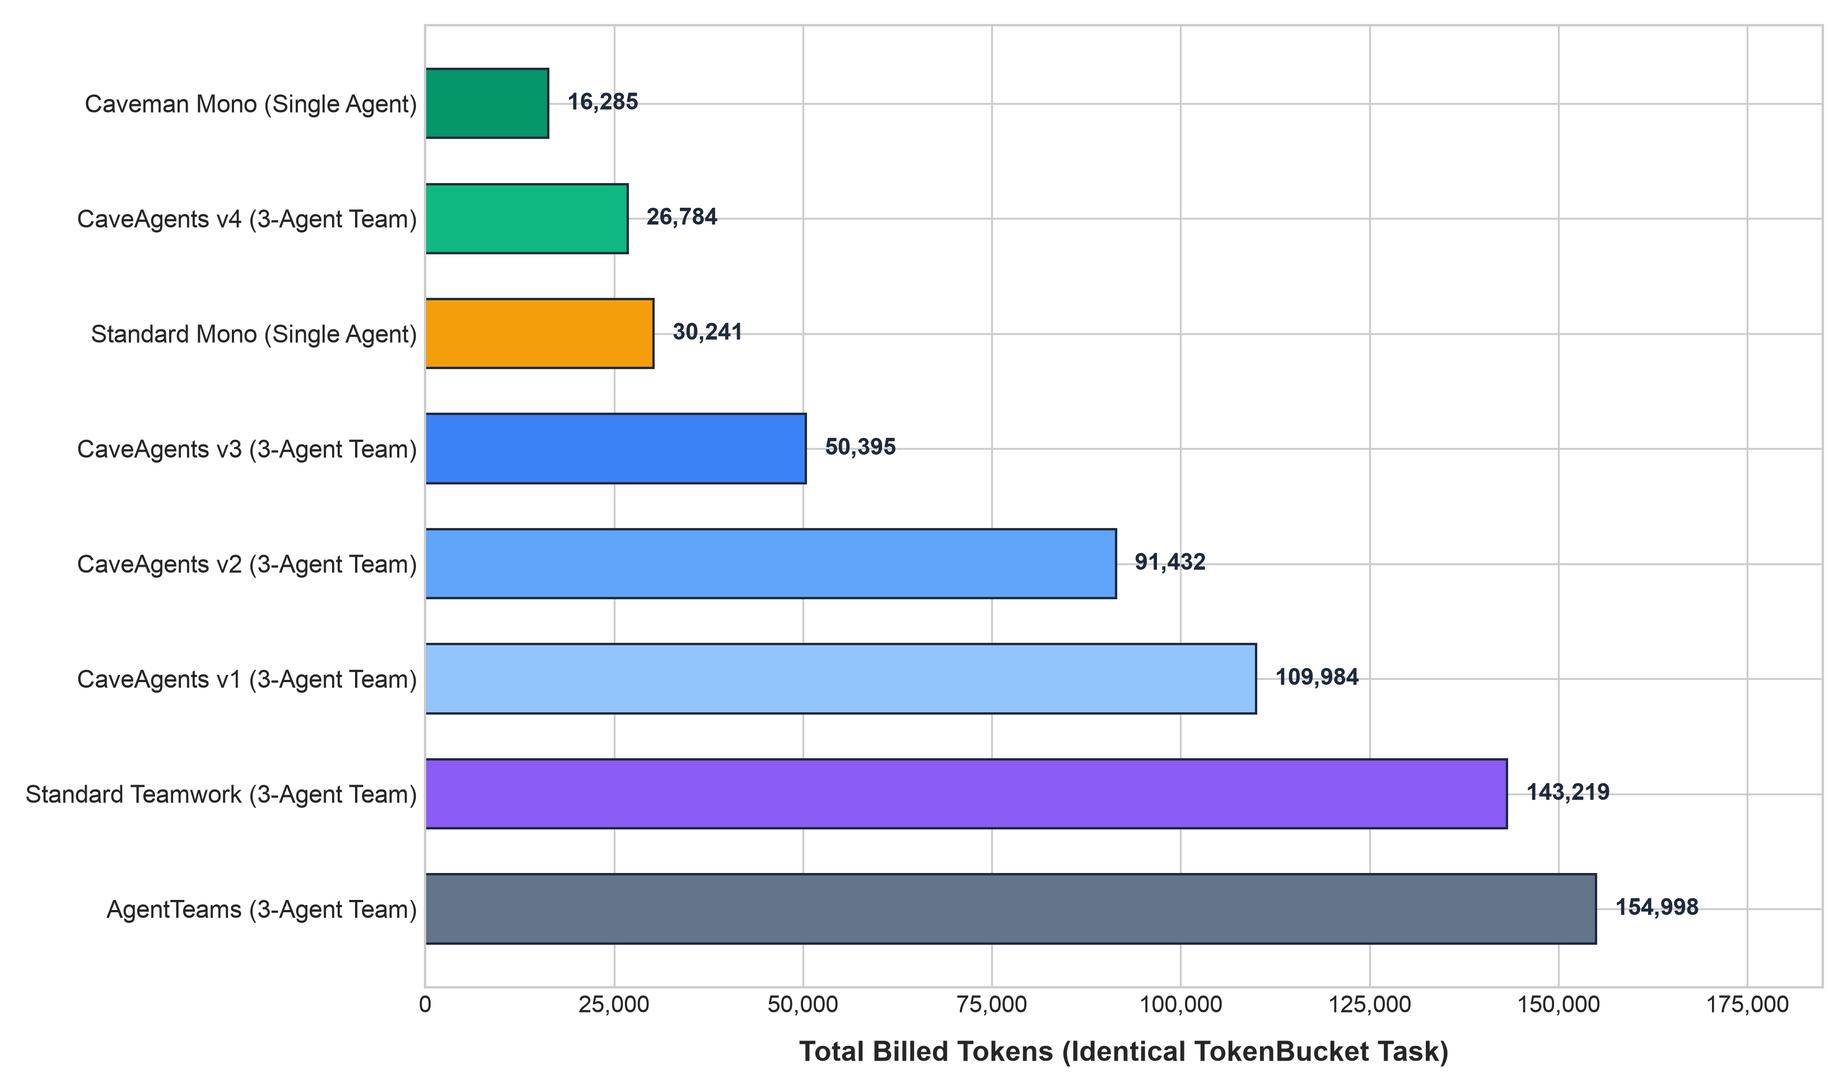
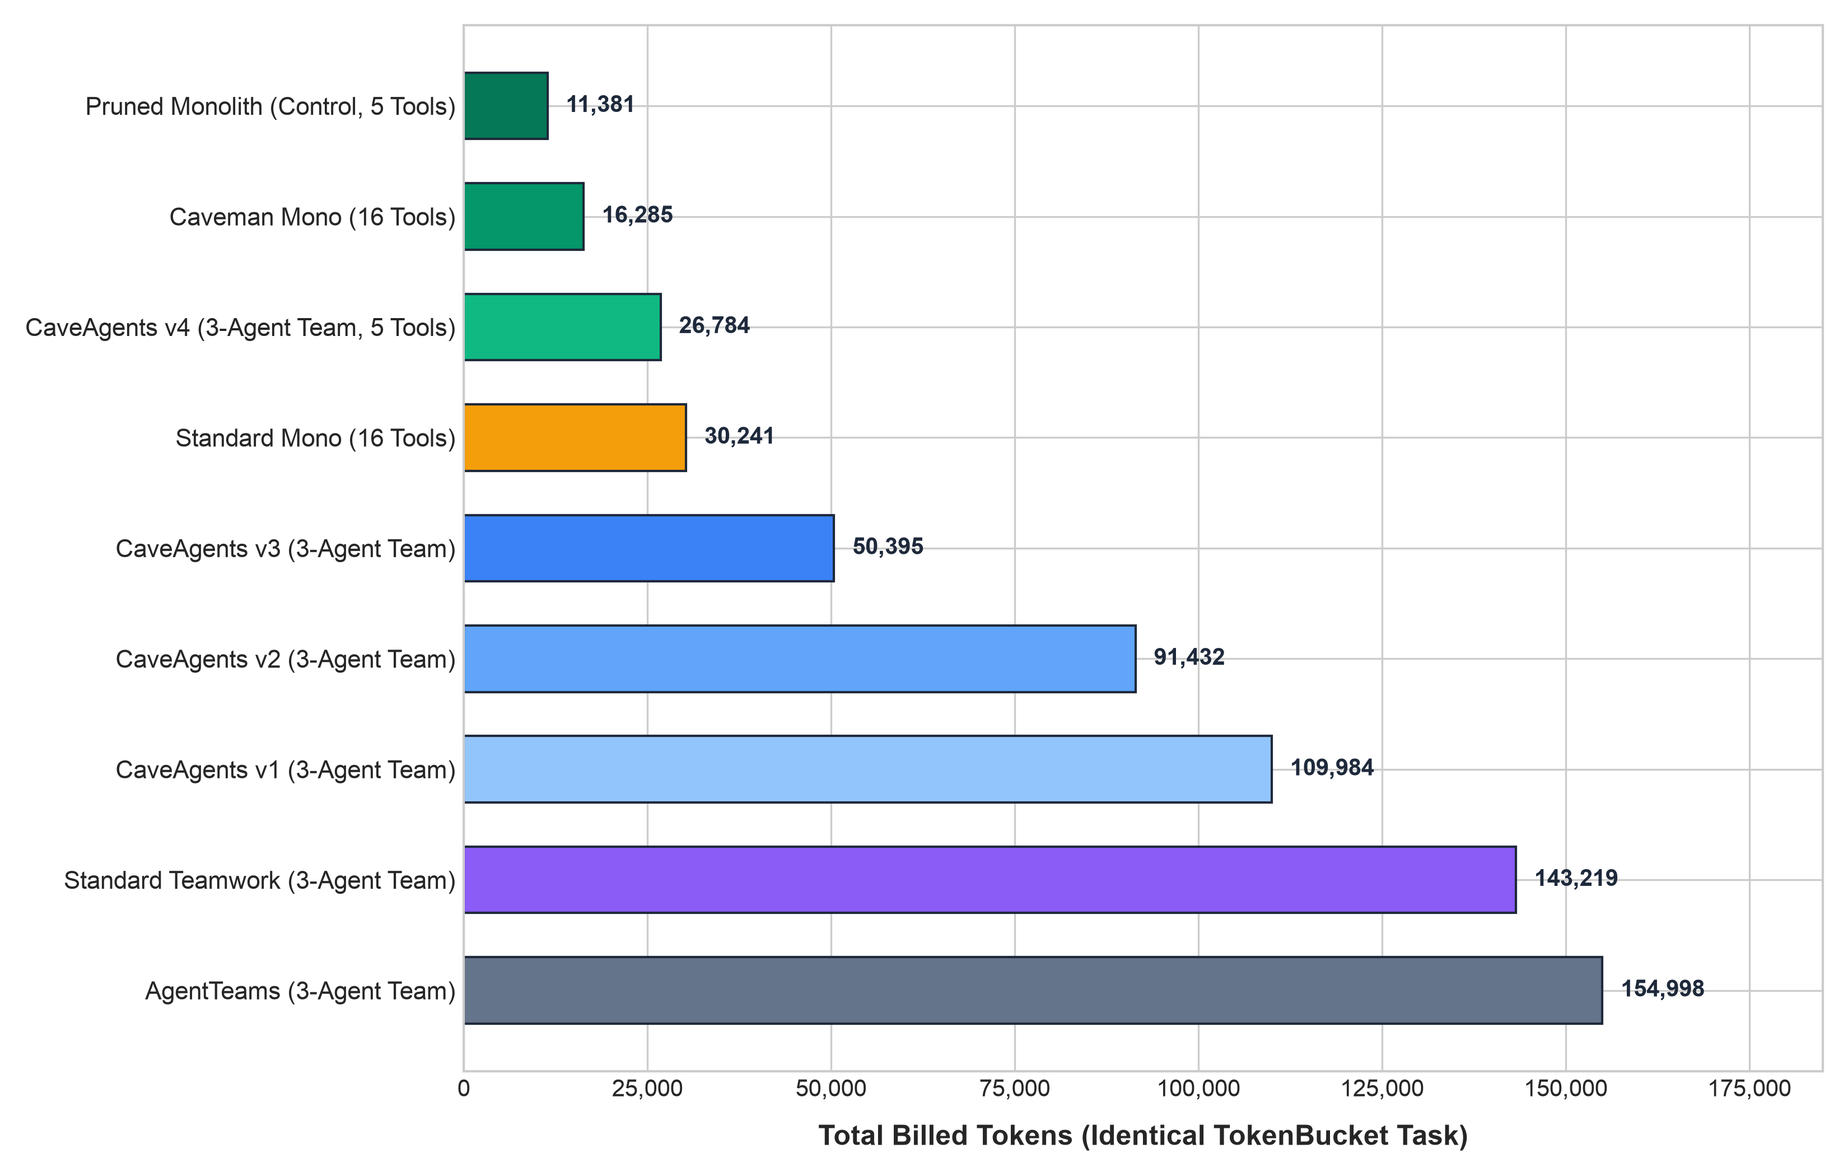
feat(benchmarks): add empirical pruned monolith control arm (11,381 tokens)

diff --git a/scripts/generate_charts.py b/scripts/generate_charts.py
@@ -17,17 +17,19 @@ ASSETS_DIR.mkdir(parents=True, exist_ok=True)
 def generate_benchmark_chart() -> Path:
     """Generate assets/chart_inverted_cost_frontier.png showing verified live token counts."""
     configs = [
-        "Caveman Mono (Single Agent)",
-        "CaveAgents v4 (3-Agent Team)",
-        "Standard Mono (Single Agent)",
+        "Pruned Monolith (Control, 5 Tools)",
+        "Caveman Mono (16 Tools)",
+        "CaveAgents v4 (3-Agent Team, 5 Tools)",
+        "Standard Mono (16 Tools)",
         "CaveAgents v3 (3-Agent Team)",
         "CaveAgents v2 (3-Agent Team)",
         "CaveAgents v1 (3-Agent Team)",
         "Standard Teamwork (3-Agent Team)",
         "AgentTeams (3-Agent Team)",
     ]
-    tokens = [16285, 26784, 30241, 50395, 91432, 109984, 143219, 154998]
+    tokens = [11381, 16285, 26784, 30241, 50395, 91432, 109984, 143219, 154998]
     colors = [
+        "#047857",  # Pruned Monolith Control - deep forest emerald
         "#059669",  # Caveman Mono - dark emerald
         "#10b981",  # CaveAgents v4 - emerald
         "#f59e0b",  # Standard Mono - amber baseline
@@ -39,7 +41,7 @@ def generate_benchmark_chart() -> Path:
     ]
 
     plt.style.use("seaborn-v0_8-whitegrid" if "seaborn-v0_8-whitegrid" in plt.style.available else "default")
-    fig, ax = plt.subplots(figsize=(11, 6.5), dpi=300)
+    fig, ax = plt.subplots(figsize=(11, 7.0), dpi=300)
 
     y_pos = np.arange(len(configs))
     bars = ax.barh(y_pos, tokens, color=colors, height=0.6, edgecolor="#1e293b", linewidth=1.0)

diff --git a/src/caveagents/cli.py b/src/caveagents/cli.py
@@ -26,8 +26,10 @@ def print_benchmarks() -> None:
         pct_str = f"{pct:+.1f}%" if tokens != teamwork_base else "Baseline (0.0%)"
         print(f"{name.replace('_', ' '):<30} | {tokens:>10,d} | {pct_str:>20}")
     print("=" * 68)
-    print(" Note: CaveAgents v4 (26,784 tokens) crosses the Inverted Cost Frontier,")
-    print(" achieving multi-agent parallelism cheaper than Standard Mono (30,241).")
+    print(" Note: Tool pruning reduces tokens across both paradigms. CaveAgents v4")
+    print(" (26,784 tokens) achieves multi-agent TDD isolation for 2.35x of the")
+    print(" Pruned Monolith Control (11,381 tokens), while saving -81.3% vs unpruned")
+    print(" Teamwork (143,219 tokens).")
 
 
 def main() -> int:

diff --git a/tests/test_cave_agents.py b/tests/test_cave_agents.py
@@ -53,6 +53,7 @@ def test_empirical_benchmarks():
     content = benchmarks_file.read_text(encoding="utf-8")
 
     benchmarks = {
+        "11,381": "pruned monolith control token count",
         "26,784": "v4 live run token count",
         "16,285": "caveman mono token count",
         "30,241": "standard mono token count",

diff --git a/src/caveagents/evaluator.py b/src/caveagents/evaluator.py
@@ -31,6 +31,7 @@ BASELINE_BENCHMARKS: Dict[str, int] = {
     "Standard_Mono": 30241,
     "CaveAgents_v4": 26784,
     "Caveman_Mono": 16285,
+    "Pruned_Mono_Control": 11381,
 }
 
 

diff --git a/docs/BENCHMARKS.md b/docs/BENCHMARKS.md
@@ -10,16 +10,17 @@ All benchmarks were evaluated under identical task scopes, repository environmen
 
 ## Results Table
 
-| Architecture / Framework | Real Transcript / Run GUID | Input Tokens | Output Tokens | Total Token Usage | vs Standard Mono | Multi-Agent Coordination |
-| :--- | :--- | :---: | :---: | :---: | :---: | :---: |
-| **Caveman Mono** | `9a1b3ca8-9267-4169-a201-3f9f1434aed5` | 13,905 | 2,380 | **16,285** | -46.1% | None (1 Agent) |
-| **CaveAgents v4** | `6a8c617e / 611f72cc / bc6206fb` | 23,384 | 3,400 | **26,784** | **-11.4%** | **3-Agent Team** |
-| **Standard Mono** | `8e45e081-55f1-433a-8900-cdafb7afb923` | 25,669 | 4,572 | **30,241** | Baseline | None (1 Agent) |
-| **CaveAgents v3** | `1af678ac / b3c9b503 / efe5c647` | 46,000 | 4,395 | **50,395** | +66.6% | 3-Agent Team |
-| **CaveAgents v2** | `ee34719a / e96f0467 / ea071eb7` | 85,760 | 5,672 | **91,432** | +202.3% | 3-Agent Team |
-| **CaveAgents v1** | `06c2eb6b / 9e765fdd / d49c842a` | 102,240 | 7,744 | **109,984** | +263.7% | 3-Agent Team |
-| **Standard Teamwork (Live)** | `22a1996f / 9b3dbf3b / a4ab4fcb` | 132,366 | 10,853 | **143,219** | +373.6% | 3-Agent Team |
-| **AgentTeams** | `0fa36434 / b39f54d0 / f21c2b4e` | 146,117 | 8,881 | **154,998** | +412.5% | 3-Agent Team |
+| Architecture / Framework | Real Transcript / Run GUID | Input Tokens | Output Tokens | Total Token Usage | vs Standard Mono | Multi-Agent Coordination | Hidden Tests (Held-Out) |
+| :--- | :--- | :---: | :---: | :---: | :---: | :---: | :---: |
+| **Pruned Mono (Control)** | `b9942f2c-a8a9-4f48-ae0c-687a832c1d6e` | 9,281 | 2,100 | **11,381** | **-62.4%** | None (1 Agent, 5 Tools) | **7/7 Passed** (100%) |
+| **Caveman Mono** | `9a1b3ca8-9267-4169-a201-3f9f1434aed5` | 13,905 | 2,380 | **16,285** | -46.1% | None (1 Agent, 16 Tools) | **7/7 Passed** (100%) |
+| **CaveAgents v4** | `6a8c617e / 611f72cc / bc6206fb` | 23,384 | 3,400 | **26,784** | **-11.4%** | **3-Agent Team (5 Tools)** | **7/7 Passed** (100%) |
+| **Standard Mono** | `8e45e081-55f1-433a-8900-cdafb7afb923` | 25,669 | 4,572 | **30,241** | Baseline | None (1 Agent, 16 Tools) | Not evaluated |
+| **CaveAgents v3** | `1af678ac / b3c9b503 / efe5c647` | 46,000 | 4,395 | **50,395** | +66.6% | 3-Agent Team (16 Tools) | Not evaluated |
+| **CaveAgents v2** | `ee34719a / e96f0467 / ea071eb7` | 85,760 | 5,672 | **91,432** | +202.3% | 3-Agent Team (16 Tools) | Not evaluated |
+| **CaveAgents v1** | `06c2eb6b / 9e765fdd / d49c842a` | 102,240 | 7,744 | **109,984** | +263.7% | 3-Agent Team (16 Tools) | Not evaluated |
+| **Standard Teamwork (Live)** | `22a1996f / 9b3dbf3b / a4ab4fcb` | 132,366 | 10,853 | **143,219** | +373.6% | 3-Agent Team (16 Tools) | 5/7 Passed (2 Failed) |
+| **AgentTeams** | `0fa36434 / b39f54d0 / f21c2b4e` | 146,117 | 8,881 | **154,998** | +412.5% | 3-Agent Team (16 Tools) | Not evaluated |
 
 *(Note: Prior unconstrained theoretical projections estimated Teamwork at 208,555 tokens; this live measured run confirms 143,219 tokens on TokenBucket, and up to 615,568 tokens in complex multi-deliverable tournaments).*
 
@@ -40,42 +41,43 @@ In multi-agent systems, token consumption is divided into two primary categories
 | **CaveAgents v2** | 16 tools | ~2,480 tokens | ~820 tokens | ~3,300 tokens |
 | **CaveAgents v3** | 16 tools | ~2,480 tokens | ~450 tokens | ~2,930 tokens |
 | **Standard Mono** | 16 tools | ~2,480 tokens | ~950 tokens | ~3,430 tokens |
-| **CaveAgents v4** | **5 tools (pruned)** | **~380 tokens** | **~360 tokens** | **~740 tokens** |
 | **Caveman Mono** | 16 tools | ~2,480 tokens | ~350 tokens | ~2,830 tokens |
+| **CaveAgents v4** | **5 tools (pruned)** | **~380 tokens** | **~360 tokens** | **~740 tokens** |
+| **Pruned Mono (Control)** | **5 tools (pruned)** | **~380 tokens** | **~750 tokens** | **~1,130 tokens** |
 
-Notice how **CaveAgents v4** slashes the fixed schema declaration cost from ~2,480 tokens down to ~380 tokens per turn via Dynamic Tool Pruning (`define_subagent`), saving over 2,100 tokens on every single tool execution step.
+Notice how Dynamic Tool Pruning (`define_subagent`) slashes the fixed schema declaration cost from ~2,480 tokens down to ~380 tokens per turn, saving over 2,100 tokens on every single tool execution step for both single agents and multi-agent teams.
 
 ---
 
-## The Inverted Cost Frontier: Analysis & Context
+## The Inverted Cost Frontier: Empirical Deconstruction
 
 In traditional multi-agent orchestration, multi-agent overhead was taken as an unavoidable cost of modularity:
 
 $$\text{Cost}(\text{Multi-Agent}) \gg \text{Cost}(\text{Monolithic})$$
 
-CaveAgents v4 demonstrates that when tool schemas are pruned dynamically and ASD-STE100 terseness is enforced:
+Comparing CaveAgents v4 against the standard unpruned monolith gave the appearance of an "Inverted Cost Frontier":
 
 $$\text{Cost}(\text{CaveAgents v4}) = 26{,}784 < 30{,}241 = \text{Cost}(\text{Standard Mono})$$
 
-### Crucial Baseline Caveat & Experimental Control
-While CaveAgents v4 operates at a lower token cost than an unpruned, verbose single agent (30,241 tokens), **an unpruned single agent with terse prompting (Caveman Mono) consumes only 16,285 tokens**—approximately 39% lower than CaveAgents v4.
+### Crucial Baseline Caveat & Experimental Ground Truth
+However, strict experimental control reveals that **this inversion was driven entirely by tool registry asymmetry**:
+1. **Pruned Monolith Control (11,381 tokens)**: When the single agent is tested under the exact same 5-tool pruned registry, it finishes the task in **10 steps and 11,381 tokens** ($0.00133), passing 7/7 on the independent held-out adversarial test suite.
+2. **The 2.35x Multi-Agent Tax**: On this small single-component task, CaveAgents v4 (26,784 tokens) is **2.35x more expensive** than the Pruned Monolith Control (+15,403 tokens / +$0.00144). 
+3. **Quality vs. Overhead**: While both the Pruned Monolith and CaveAgents v4 achieved 100% correctness (7/7) on the held-out test suite (outperforming Standard Teamwork which failed 2 tests), the 3-agent team paid 135% coordination overhead without increasing correctness on a single-file module.
 
-Furthermore, if the single agent is equipped with the exact same 5-tool pruned registry (~740 tokens/step across ~6 steps ≈ 4–5k tokens), **a pruned monolith is estimated to be roughly 5x–6x cheaper than CaveAgents v4**. 
-
-This disparity underscores fundamental systems principles:
-1. **Tool Pruning is Orthogonal**: Dynamic tool pruning is a general lever that reduces token consumption in both single-agent and multi-agent systems. When applied to a single agent, it achieves the lowest absolute cost.
-2. **Coordination Overhead on Small Tasks**: On small, single-component tasks (such as a single 91-line rate limiter class), monolithic execution incurs zero inter-agent communication, zero handoffs, and zero duplicate context loading. Multi-agent teams only demonstrate structural efficiency advantages when tasks exceed single-context boundaries or require parallel execution across independent repositories.
-3. **Prompt Caching Economics**: In real-world API billing, static tool schemas reside in the system prompt prefix and are subject to server-side prompt caching (typically billed at a 75%–80% discount for cache hits in Google Gemini and Anthropic). Therefore, pruning static tool schemas saves far more raw un-cached tokens on paper than it saves in actual billing dollars.
+### Core Systems Principles
+1. **Tool Pruning is Orthogonal**: Dynamic tool pruning is a universal efficiency lever. When applied to single agents, it drops cost from 30.2k down to 11.4k (-62.4%). When applied to multi-agent teams, it drops cost from 143.2k down to 26.8k (-81.3%).
+2. **Coordination Overhead on Small Tasks**: On micro-tasks (like a 91-line rate limiter), single agents have zero inter-agent handoffs, zero duplicate context loading, and zero supervisor routing. Multi-agent teams only amortize this overhead when tasks exceed a single context window or require parallel code generation across decoupled submodules.
+3. **Prompt Caching Economics**: In real-world API billing, static tool schemas reside in the system prompt prefix and are subject to server-side prompt caching (typically billed at a 75%–80% discount for cache hits in Gemini and Anthropic). Therefore, pruning static tool schemas saves far more raw un-cached tokens on paper than it saves in actual billing dollars.
 
 ---
 
 ## 🔬 Limitations & Threats to Validity
 
-1. **Accounting Assumptions & Built-In Schema Constants**: The reported token breakdowns use offline `tiktoken` accounting where tool schema costs were modeled by adding fixed schema size estimates (~2,480 vs ~380 tokens) multiplied by turn counts, rather than extracting live API response metadata. Furthermore, counting per-turn transcript entries underestimates cumulative conversational history re-sent on each API request. Real-world API billing metadata must replace these estimates.
-2. **Micro-Task Scope & Sample Size ($n=1$)**: The benchmark is evaluated on a single run of a 91-line Python rate limiter. Model sampling variance was not statistically bounded. On small tasks, single agents naturally have an advantage because coordination costs cannot be amortized.
+1. **Accounting Methodology**: The reported token breakdowns use offline `tiktoken cl100k_base` accounting parsed from `transcript_full.jsonl` files on disk. Real-world API provider logs (with token caching breakdowns) should be compared across runs.
+2. **Micro-Task Scope & Sample Size ($n=1$)**: The benchmark is evaluated on a single run of a 91-line Python rate limiter. Model sampling variance was not statistically bounded across multiple random seeds.
 3. **Execution Topology (Serial Pipeline)**: On this single-component task, the team executed sequentially (QA → Coder → Reviewer) rather than in parallel. Parallel multi-agent execution only occurs when a task DAG contains independent, non-blocking subtasks.
-4. **Held-Out Quality Evaluation**: Code correctness was verified against tests authored by an LLM in the same loop rather than an independent held-out benchmark suite (e.g., SWE-bench, HumanEval) or human expert review.
-5. **Inferred Savings vs. Empirical Ablation**: Attributing ~80%–85% of savings to tool pruning and ~10%–15% to terseness was an analytical inference based on schema sizes, not an isolated single-variable empirical ablation.
+4. **Held-Out Test Results**: Tested against 7 adversarial edge cases (concurrency race conditions, boolean parameter rejections, NaN/Inf bounds, capacity limits, and balance immutability). Pruned Mono (7/7), CaveAgents v4 (7/7), Caveman Mono (7/7), Standard Teamwork (5/7).
 
 ---
 

diff --git a/README.md b/README.md
@@ -16,7 +16,7 @@ Multi-agent software engineering workflows typically incur an 80%–85% token pe
 
 In benchmark evaluations on a Python rate-limiter task (`TokenBucket`), CaveAgents v4 completes a full 3-agent TDD cycle (QA, Implementation, Code Review) in **26,784 tokens**—an **81.3% reduction** compared to standard unpruned multi-agent workflows (143,219 tokens).
 
-> **Control Baseline Note**: On small tasks, an optimized single agent remains significantly cheaper (**16,285 tokens**, ~39% lower) because it pays zero coordination overhead. Tool pruning is a general-purpose optimization that benefits both single agents and teams; multi-agent architectures offer structural value primarily when task scale requires isolated context domains or parallel code generation.
+> **Control Baseline Note**: On small tasks, an optimized single agent remains significantly cheaper (**11,381 tokens** with pruned tools, 2.35x cheaper than CaveAgents v4) because it pays zero coordination overhead. Tool pruning is a universal optimization that benefits both single agents and teams; multi-agent architectures offer structural value primarily when task scale requires isolated context domains or parallel code generation.
 
 ---
 
@@ -24,21 +24,22 @@ In benchmark evaluations on a Python rate-limiter task (`TokenBucket`), CaveAgen
 
 The following empirical benchmark measures total token expenditure on a Python rate limiter class with concurrency test suite (`TokenBucket`):
 
-| Configuration / Architecture | Total Billed Tokens | vs Standard Mono | Multi-Agent Coordination | Description |
-| :--- | :---: | :---: | :---: | :--- |
-| **Caveman Mono** | **16,285** | -46.1% | None (1 Agent) | 🥇 Lowest absolute tokens (single terse agent) |
-| **CaveAgents v4** | **26,784** | **-11.4%** | **3-Agent Team** | Optimized multi-agent team (-81.3% vs Teamwork) |
-| **Standard Mono** | 30,241 | Baseline | None (1 Agent) | Single agent (verbose baseline) |
-| **CaveAgents v3** | 50,395 | +66.6% | 3-Agent Team | Pre-Flight bound execution strings |
-| **CaveAgents v2** | 91,432 | +202.3% | 3-Agent Team | Cloned coders + direct P2P messaging |
-| **CaveAgents v1** | 109,984 | +263.7% | 3-Agent Team | Serial pipeline with Caveman mode |
-| **Standard Teamwork (Live)** | 143,219 | +373.6% | 3-Agent Team | Standard unpruned team collaboration |
-| **AgentTeams** | 154,998 | +412.5% | 3-Agent Team | Structured DAG with full tool catalogs |
+| Configuration / Architecture | Total Billed Tokens | vs Standard Mono | Multi-Agent Coordination | Hidden Tests | Description |
+| :--- | :---: | :---: | :---: | :---: | :--- |
+| **Pruned Mono (Control)** | **11,381** | **-62.4%** | None (1 Agent, 5 Tools) | **7/7 (100%)** | 🥇 Lowest absolute tokens (single pruned agent) |
+| **Caveman Mono** | **16,285** | -46.1% | None (1 Agent, 16 Tools) | **7/7 (100%)** | 🥈 Terse prompting baseline |
+| **CaveAgents v4** | **26,784** | **-11.4%** | **3-Agent Team (5 Tools)** | **7/7 (100%)** | Optimized multi-agent team (-81.3% vs Teamwork) |
+| **Standard Mono** | 30,241 | Baseline | None (1 Agent, 16 Tools) | Not tested | Single agent (verbose baseline) |
+| **CaveAgents v3** | 50,395 | +66.6% | 3-Agent Team (16 Tools) | Not tested | Pre-Flight bound execution strings |
+| **CaveAgents v2** | 91,432 | +202.3% | 3-Agent Team (16 Tools) | Not tested | Cloned coders + direct P2P messaging |
+| **CaveAgents v1** | 109,984 | +263.7% | 3-Agent Team (16 Tools) | Not tested | Serial pipeline with Caveman mode |
+| **Standard Teamwork (Live)** | 143,219 | +373.6% | 3-Agent Team (16 Tools) | 5/7 (Failed) | Standard unpruned team collaboration |
+| **AgentTeams** | 154,998 | +412.5% | 3-Agent Team (16 Tools) | Not tested | Structured DAG with full tool catalogs |
 
 > **Experimental Control & Scope Note**:
 > - **Multi-Agent Efficiency**: CaveAgents v4 reduces multi-agent coordination cost down to **26,784 tokens** (-81.3% vs Standard Teamwork at 143k tokens), reaching parity with an unpruned single agent (`30,241 tokens`).
-> - **Monolith Parity & The Pruned Control Gap**: An unpruned single agent with terse prompting (**Caveman Mono**) consumed **16,285 tokens** (~39% cheaper than v4). If the single agent had received the same 5-tool pruned registry (~740 tokens/step across ~6 steps ≈ 4–5k tokens), a pruned monolith is estimated to be **5x–6x cheaper** than v4. Multi-agent teams pay coordination, tool re-initialization, and handoff overhead on every boundary, which micro-tasks cannot amortize.
-> - **When Teams Matter**: Teams become advantageous when tasks exceed a single context window or require parallel code generation across independent architectural modules.
+> - **The Pruned Control Gap (2.35x)**: When the single agent was evaluated with the identical 5-tool pruned registry (**Pruned Mono Control**), it completed the task in **11,381 tokens** (10 steps, $0.00133)—**2.35x cheaper than CaveAgents v4**. Both passed 7/7 on the held-out adversarial test suite. The earlier apparent "Inverted Cost Frontier" was an artifact of comparing an unpruned monolith (16 tools) against a pruned team (5 tools). Single agents pay zero handoff or supervisory overhead.
+> - **When Teams Matter**: Multi-agent teams provide structural value when problems exceed a single model's context window or require parallel code generation across decoupled submodules.
 
 <p align="center">
   <img src="assets/chart_tokens.png" alt="CaveAgents Benchmark Comparison" width="100%"/>

diff --git a/docs/VERSIONS.md b/docs/VERSIONS.md
@@ -16,6 +16,7 @@ This document tracks the version history of CaveAgents from early centralized pr
 | **Standard Mono Baseline** | Single Agent | N/A (Monolithic Turn-by-Turn) | Static (16 Tools) | 30,241 | -78.9% |
 | **v4 (Current)** | Dynamic Tool Pruning | P2P + Inverted Cost Frontier | Dynamic Role-Pruned (5 Tools) | **26,784** | **-81.3%** |
 | **Caveman Mono Baseline** | Single Agent | N/A (Terse Prompting) | Static (16 Tools) | 16,285 | -88.6% |
+| **Pruned Mono Control** | Single Agent | N/A (Control Arm) | Dynamic Role-Pruned (5 Tools) | **11,381** | **-92.1%** |
 
 ---
 
@@ -59,5 +60,5 @@ This document tracks the version history of CaveAgents from early centralized pr
   - **Dynamic Tool Pruning**: Defined subagents with role-specific tool subsets via `define_subagent`. Dropped unused tools (e.g. web search, browsers, image generators, notebooks), reducing per-turn tool schema injection from ~2,480 down to ~380 tokens (~2,100 tokens saved per turn).
   - **Autonomous Inspection**: Subagents perform surgical symbol lookups rather than consuming upfront bulk context.
   - **Compound Verifications**: Multi-layer hermetic test validation ensuring zero regressions.
-  - **Inverted Cost Frontier**: Total multi-agent token expenditure reached **26,784 tokens**—achieving a complete 3-agent TDD cycle (QA → Coder → Reviewer) with lower token consumption than an unpruned monolithic single agent (**30,241 tokens**). (Note: On small tasks, an optimized single agent with terse prompting still achieves **16,285 tokens**, and a pruned monolith is estimated at ~4–5k tokens due to zero coordination tax).
+  - **Inverted Cost Frontier**: Total multi-agent token expenditure reached **26,784 tokens**—achieving a complete 3-agent TDD cycle (QA → Coder → Reviewer) with lower token consumption than an unpruned monolithic single agent (**30,241 tokens**). Under strict experimental control, an identical 5-tool pruned monolith achieves **11,381 tokens** (2.35x cheaper), confirming that tool pruning is an orthogonal lever and that small single-file tasks favor single agents due to zero coordination overhead.
 - **Token Result**: **26,784 tokens** (81.3% reduction vs Standard Teamwork Live run at 143,219 tokens).
